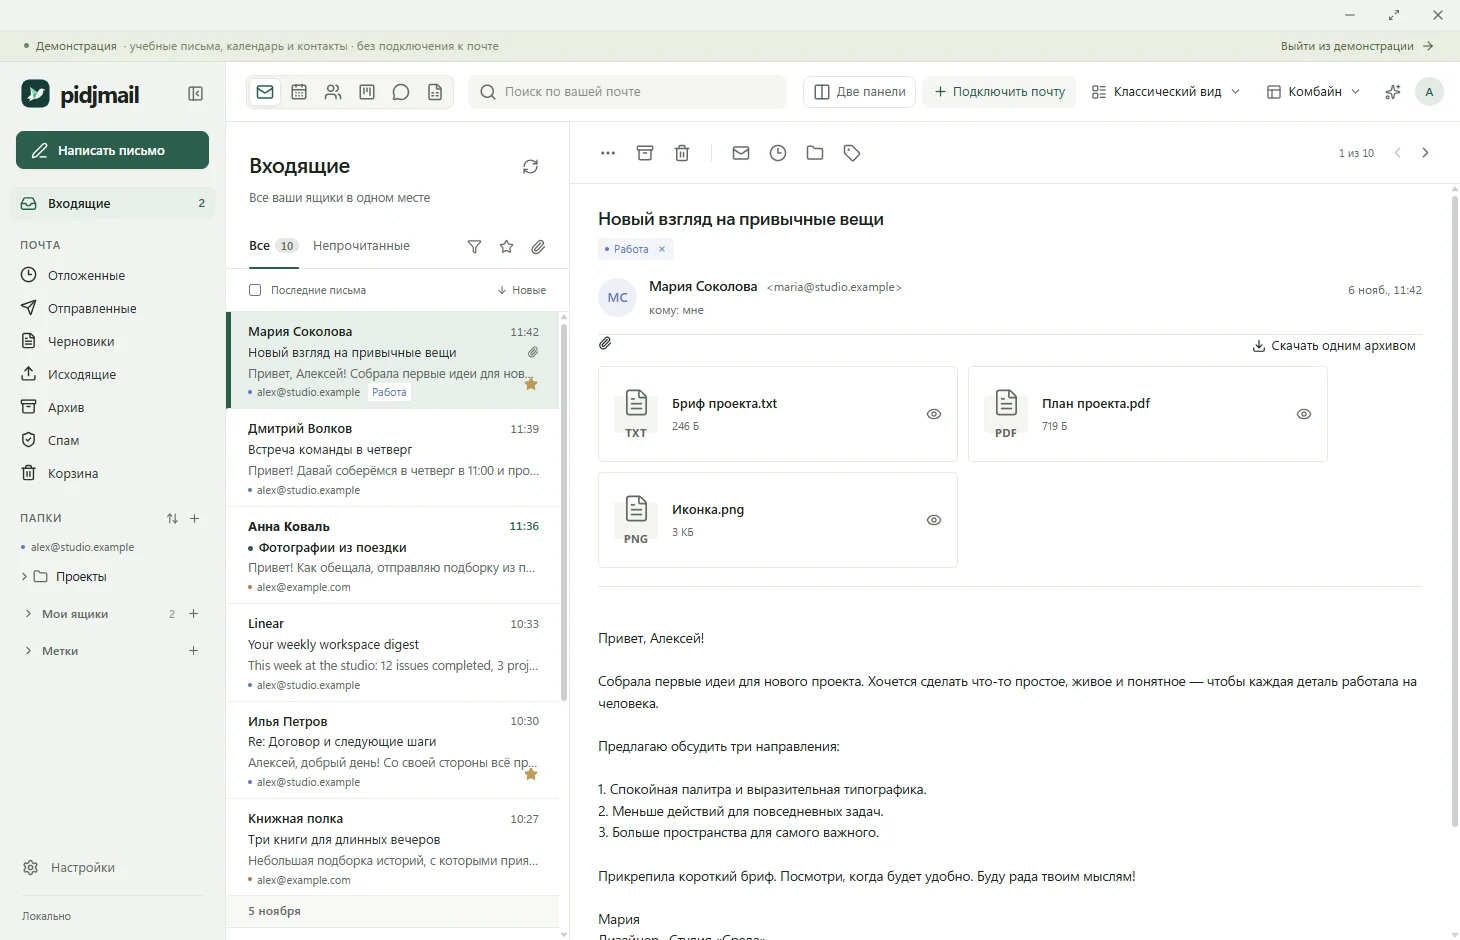
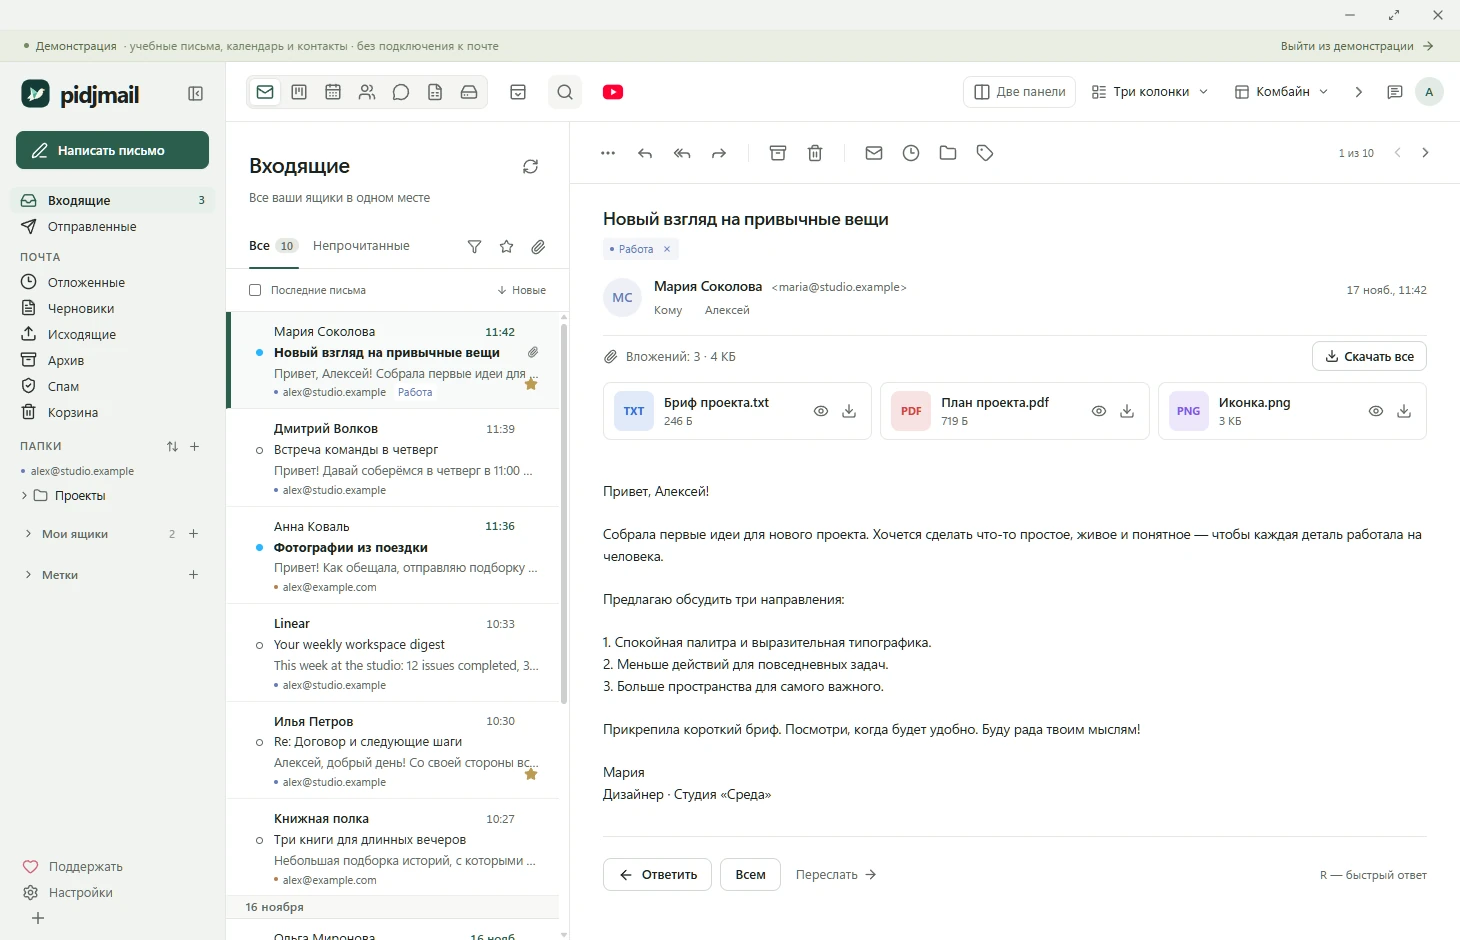
Update EmDiSoftware site for Pidjmail 0.4.0

diff --git a/pidjmail/index.html b/pidjmail/index.html
@@ -8,7 +8,7 @@
   <meta http-equiv="Expires" content="0">
   <meta name="theme-color" content="#080e16">
   <meta name="color-scheme" content="dark">
-  <meta name="site-build" content="v7">
+  <meta name="site-build" content="v8">
   <title>Pidjmail — EmDiSoftware</title>
   <meta name="description" content="Pidjmail — бесплатный почтовый клиент для Windows: несколько ящиков IMAP/SMTP, календарь, контакты, доски задач, отчёты о прочтении и встроенные чаты в спокойном интерфейсе.">
   <link rel="canonical" href="https://adamanomatik.github.io/pidjmail/">
@@ -18,7 +18,7 @@
   <meta property="og:title" content="Pidjmail — почта, календарь и контакты для Windows">
   <meta property="og:description" content="Бесплатный почтовый клиент для Windows с календарём, контактами и досками задач.">
   <meta property="og:url" content="https://adamanomatik.github.io/pidjmail/">
-  <meta property="og:image" content="https://adamanomatik.github.io/assets/pidjmail-preview.webp">
+  <meta property="og:image" content="https://adamanomatik.github.io/assets/pidjmail-preview.webp?v=040">
 </head>
 <body>
   <header class="site-header">
@@ -55,11 +55,11 @@
             <span>Windows 10/11</span>
             <span>x64</span>
             <span>Free</span>
-            <span>0.2.22</span>
+            <span>0.4.0</span>
           </div>
 
           <div class="button-row">
-            <a class="button button-primary" href="https://github.com/AdamAnomatik/Pidjmail-Releases/releases/download/v0.2.22/Pidjmail-Setup-0.2.22-x64.exe">
+            <a class="button button-primary" href="https://github.com/AdamAnomatik/Pidjmail-Releases/releases/download/v0.4.0/Pidjmail-Setup-0.4.0-x64.exe">
               <span data-lang="ru">Скачать</span>
               <span data-lang="en" hidden>Download</span>
               <span aria-hidden="true">↓</span>
@@ -73,7 +73,7 @@
     </section>
     <section class="content-section">
       <div class="shell">
-        <img src="../assets/pidjmail-preview.webp" width="1460" height="940" loading="lazy"
+        <img src="../assets/pidjmail-preview.webp?v=040" width="1460" height="940" loading="lazy"
              alt="Pidjmail с учебными письмами в демонстрационном режиме"
              style="display:block;width:100%;height:auto;border:1px solid var(--line-strong);border-radius:20px;">
       </div>
@@ -95,20 +95,20 @@
           <article class="feature-card">
             <h3 data-lang="ru">Отчёты о прочтении</h3>
             <h3 data-lang="en" hidden>Read receipts</h3>
-            <p data-lang="ru">Галочки в отправленных показывают, кто и когда открыл письмо. На чужие запросы Pidjmail спрашивает вас или отвечает сам — как вы настроите.</p>
-            <p data-lang="en" hidden>Checkmarks on sent mail show who opened it and when. For other senders' requests, Pidjmail asks you or answers by itself — as you choose.</p>
+            <p data-lang="ru">Галочки в отправленных показывают полученные подтверждения прочтения. Получатель может не отправить подтверждение. На чужие запросы Pidjmail отвечает согласно вашим настройкам.</p>
+            <p data-lang="en" hidden>Checkmarks show received read receipts. Recipients may choose not to send a receipt. Pidjmail answers incoming receipt requests according to your settings.</p>
           </article>
           <article class="feature-card">
             <h3 data-lang="ru">Календарь, контакты и доски</h3>
             <h3 data-lang="en" hidden>Calendar, contacts and boards</h3>
-            <p data-lang="ru">Создавайте событие, задачу или контакт прямо из письма. Напоминания приходят, пока программа запущена.</p>
-            <p data-lang="en" hidden>Create an event, task or contact right from a message. Reminders arrive while the app is running.</p>
+            <p data-lang="ru">Создавайте задачи прямо из писем, добавляйте и переименовывайте столбцы, меняйте их ширину. Напоминания повторяются каждый час до завершения или отключения; доступен однократный режим. Просроченные задачи видны на значке досок.</p>
+            <p data-lang="en" hidden>Create tasks from mail, add and rename columns, and resize them. Reminders repeat hourly until completed or disabled, with a one-time option. The Boards icon shows overdue tasks.</p>
           </article>
           <article class="feature-card">
             <h3 data-lang="ru">Вложения внутри программы</h3>
             <h3 data-lang="en" hidden>Attachments inside the app</h3>
-            <p data-lang="ru">Просмотр PDF, изображений, Excel и Word без сохранения на диск, скачивание всех вложений одним архивом.</p>
-            <p data-lang="en" hidden>View PDF, images, Excel and Word without saving them to disk, and download all attachments as one archive.</p>
+            <p data-lang="ru">Просмотр PDF, изображений, Excel и Word без сохранения на диск. Вставка изображений через Ctrl+V, превью новых вложений над текстом письма и перенос файлов при пересылке.</p>
+            <p data-lang="en" hidden>View PDF, images, Excel and Word without saving them to disk. Paste images with Ctrl+V, preview new attachments above the message and keep files when forwarding.</p>
           </article>
           <article class="feature-card">
             <h3 data-lang="ru">Чаты рядом с почтой</h3>
@@ -123,16 +123,28 @@
             <p data-lang="en" hidden>Finds mail, reads attachments, builds registers and prepares drafts. Free on this computer or through your own OpenRouter account. It cannot send or delete mail by itself.</p>
           </article>
           <article class="feature-card">
-            <h3 data-lang="ru">Две панели и два вида</h3>
-            <h3 data-lang="en" hidden>Two panes, two layouts</h3>
-            <p data-lang="ru">Почта, календарь или контакты рядом с чатом в одном окне. Современный режим по датам или классическая почта.</p>
-            <p data-lang="en" hidden>Mail, calendar or contacts next to a chat in one window. A modern date-based layout or classic mail.</p>
+            <h3 data-lang="ru">Компактное рабочее место</h3>
+            <h3 data-lang="en" hidden>A compact workspace</h3>
+            <p data-lang="ru">Сворачиваемые поиск и панель инструментов, компактные папки, выборочное наследование и копирование цветов. Масштаб меняется через Ctrl+колесо, два раздела открываются рядом.</p>
+            <p data-lang="en" hidden>Collapsible search and toolbar, compact folders, selective color inheritance and color copying. Use Ctrl+wheel to zoom and open two sections side by side.</p>
           </article>
           <article class="feature-card">
             <h3 data-lang="ru">Данные на вашем компьютере</h3>
             <h3 data-lang="en" hidden>Your data stays on your PC</h3>
             <p data-lang="ru">Профиль и пароли зашифрованы средствами Windows, почта соединяется напрямую с вашим провайдером. Учебный демо-режим отделён от настоящей почты.</p>
             <p data-lang="en" hidden>Your profile and passwords are encrypted with Windows protection, and mail connects directly to your provider. The demo mode is kept apart from real mail.</p>
+          </article>
+          <article class="feature-card">
+            <h3 data-lang="ru">YouTube над письмом</h3>
+            <h3 data-lang="en" hidden>YouTube above your mail</h3>
+            <p data-lang="ru">В режиме «Комбайн» видео открывается над письмом. Вынесите панель в отдельное окно и верните её обратно без перезагрузки страницы.</p>
+            <p data-lang="en" hidden>In combined mode, open YouTube above your message. Move it into a separate window and dock it again without reloading the page.</p>
+          </article>
+          <article class="feature-card">
+            <h3 data-lang="ru">Подпись с изображениями</h3>
+            <h3 data-lang="en" hidden>Signatures with inline images</h3>
+            <p data-lang="ru">Картинки располагаются внутри подписи, их ширину можно менять. Получатели показываются по именам с раскрытием адреса, новые адресаты после отправки добавляются в контакты.</p>
+            <p data-lang="en" hidden>Place images inside signatures and adjust their width. Recipient names reveal addresses on click, and new outgoing recipients are added to contacts.</p>
           </article>
           <article class="feature-card">
             <h3 data-lang="ru">Русский и English</h3>
@@ -147,13 +159,13 @@
       <div class="shell">
         <div class="status-panel">
           <div>
-            <h2 data-lang="ru">Версия 0.2.22 доступна</h2>
-            <h2 data-lang="en" hidden>Version 0.2.22 is available</h2>
+            <h2 data-lang="ru">Версия 0.4.0 доступна</h2>
+            <h2 data-lang="en" hidden>Version 0.4.0 is available</h2>
             <p data-lang="ru">Ранняя рабочая версия. Установщик пока не подписан, автообновления нет. Установщик и контрольная сумма опубликованы в официальном release-репозитории.</p>
             <p data-lang="en" hidden>An early working release. The installer is not signed yet and there are no automatic updates. The installer and checksum are published in the official release repository.</p>
           </div>
 
-          <a class="button button-primary" href="https://github.com/AdamAnomatik/Pidjmail-Releases/releases/tag/v0.2.22">
+          <a class="button button-primary" href="https://github.com/AdamAnomatik/Pidjmail-Releases/releases/tag/v0.4.0">
             <span data-lang="ru">Открыть последний релиз</span>
             <span data-lang="en" hidden>Open latest release</span>
           </a>

diff --git a/index.html b/index.html
@@ -133,8 +133,8 @@
                 <span data-lang="en" hidden>Early release</span>
               </div>
               <h3>Pidjmail</h3>
-              <p data-lang="ru">Почта, календарь, контакты и доски задач для Windows. Несколько ящиков в одном окне.</p>
-              <p data-lang="en" hidden>Mail, calendar, contacts and task boards for Windows. Several mailboxes in one window.</p>
+              <p data-lang="ru">Pidjmail 0.4.0: почта, чаты и настраиваемые доски с напоминаниями. Несколько ящиков в одном окне.</p>
+              <p data-lang="en" hidden>Pidjmail 0.4.0: mail, chats and customizable task boards with reminders. Several mailboxes in one window.</p>
             </div>
             <a class="button button-card" href="./pidjmail/">
               <span data-lang="ru">Открыть</span>
